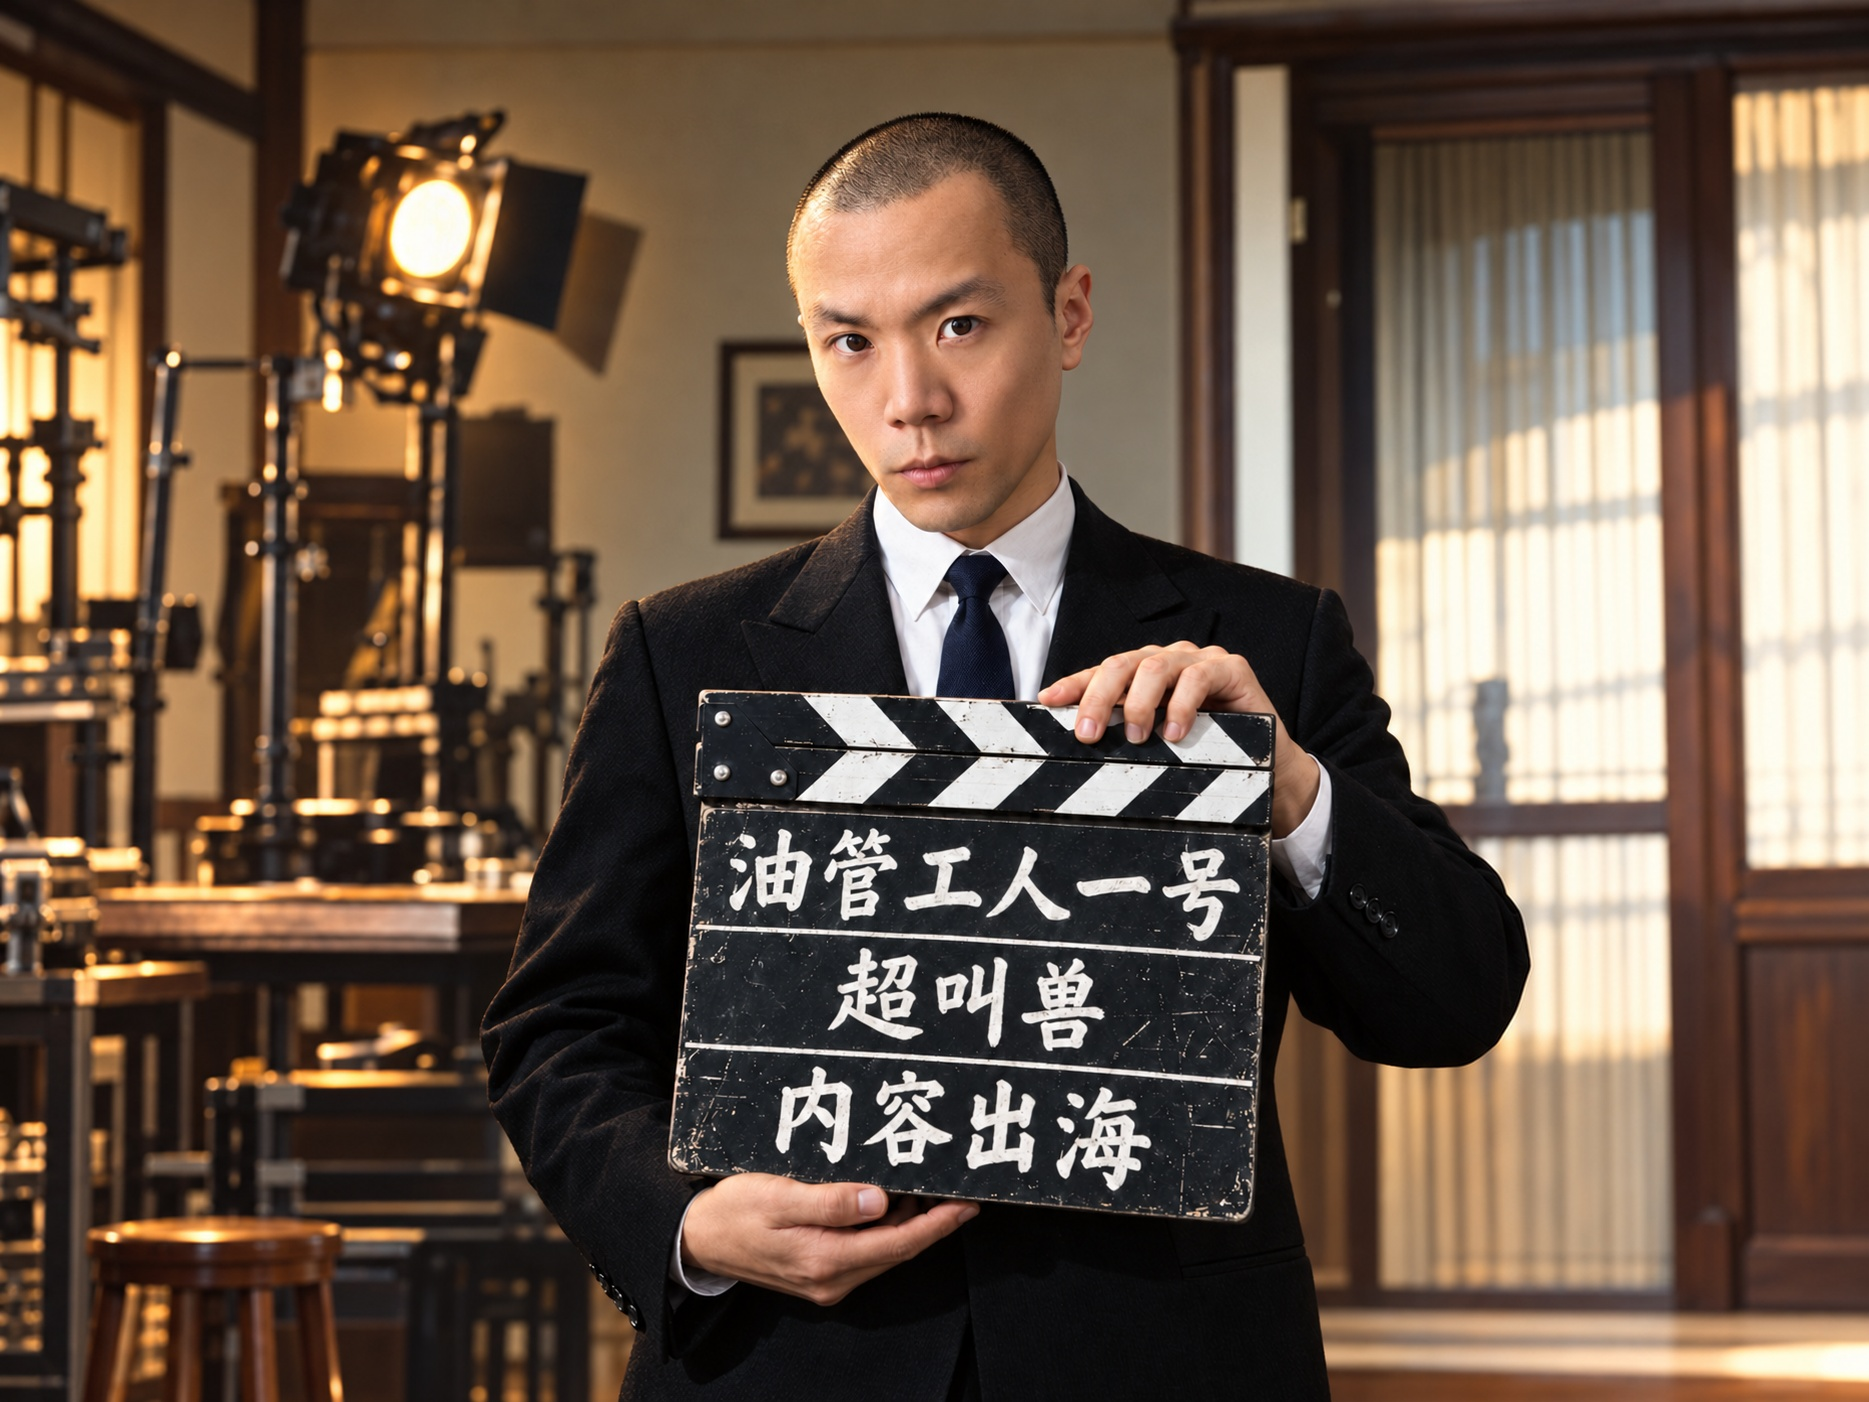
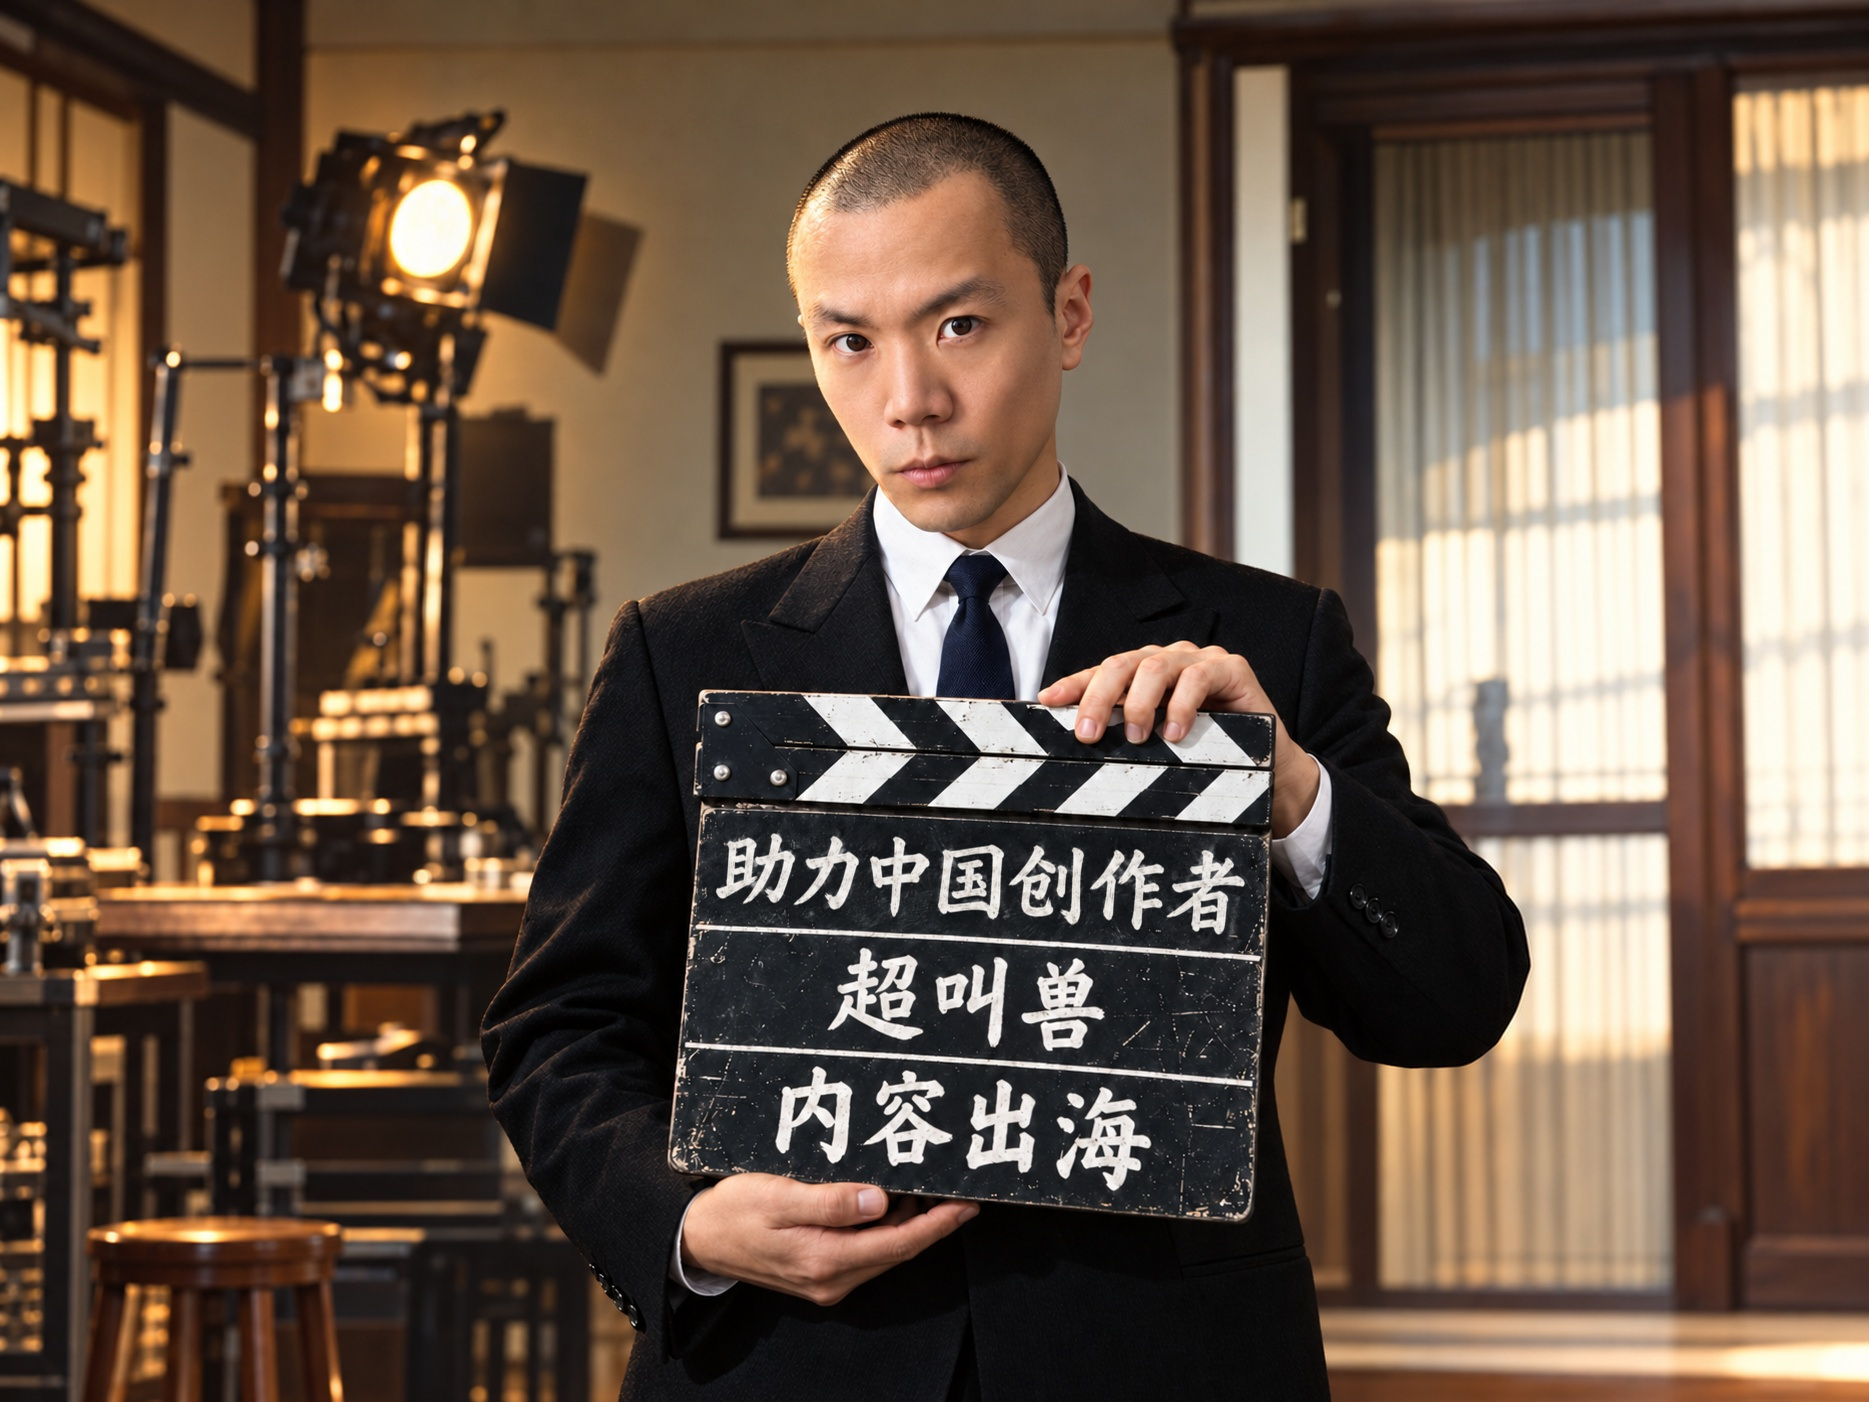
更新场记板首行为「助力中国创作者」

Changed region(s): [[0.3724, 0.5827, 0.6827, 0.6748]]

diff --git a/index.html b/index.html
@@ -8,7 +8,7 @@
     <meta name="description" content="超叫兽，内容出海专家。助力中国创作者的内容出海">
     <meta property="og:title" content="超叫兽 · 内容出海专家">
     <meta property="og:description" content="超叫兽的个人主页">
-    <meta property="og:image" content="https://chaojiaoshou.com/assets/slate-landscape.jpg">
+    <meta property="og:image" content="https://chaojiaoshou.com/assets/slate-landscape.jpg?v=2">
     <link rel="canonical" href="https://chaojiaoshou.com/">
     <link rel="icon" href="favicon.ico" sizes="16x16 32x32 48x48 64x64">
     <link rel="stylesheet" href="style.css">
@@ -16,8 +16,8 @@
   <body>
     <main class="profile">
       <picture>
-        <source media="(max-width: 700px)" srcset="assets/slate-portrait.jpg" width="1122" height="1496">
-        <img src="assets/slate-landscape.jpg" width="1869" height="1402" fetchpriority="high" alt="超叫兽身穿黑西装，神情严肃地看向镜头，手持写有「油管工人一号、超叫兽、内容出海」的场记板。">
+        <source media="(max-width: 700px)" srcset="assets/slate-portrait.jpg?v=2" width="1122" height="1496">
+        <img src="assets/slate-landscape.jpg?v=2" width="1869" height="1402" fetchpriority="high" alt="超叫兽身穿黑西装，神情严肃地看向镜头，手持写有「助力中国创作者、超叫兽、内容出海」的场记板。">
       </picture>
       <div class="identity">
         <p class="byline">内容出海专家</p>

diff --git a/README.md b/README.md
@@ -24,7 +24,7 @@ python3 -m http.server 8000 --bind 127.0.0.1
 | --- | --- |
 | 姓名、简介、社媒图标和分享信息 | [index.html](index.html) |
 | 字体、配色、二维码尺寸和手机布局 | [style.css](style.css) |
-| 桌面和手机人像 | [横版照片](assets/slate-landscape.jpg)、[竖版照片](assets/slate-portrait.jpg) |
+| 桌面和手机人像（场记板首行「助力中国创作者」） | [横版照片](assets/slate-landscape.jpg)、[竖版照片](assets/slate-portrait.jpg) |
 | 微信联系方式 | [二维码](assets/wechat-qr.svg) |
 | 浏览器标签页图标 | [favicon.ico](favicon.ico) |
 
